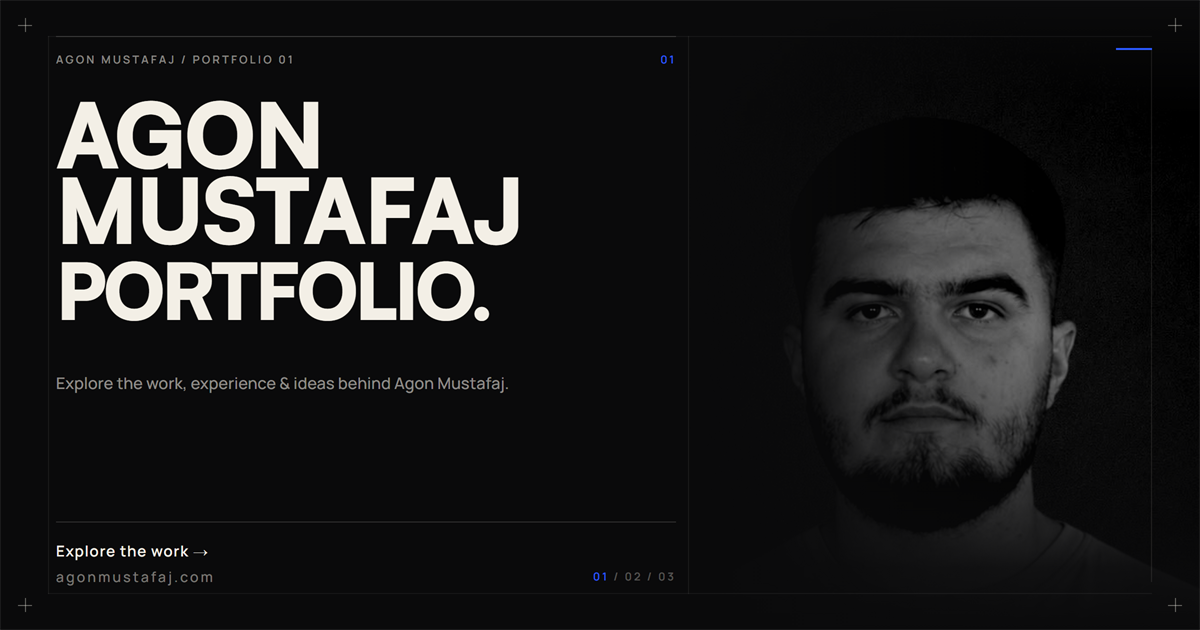
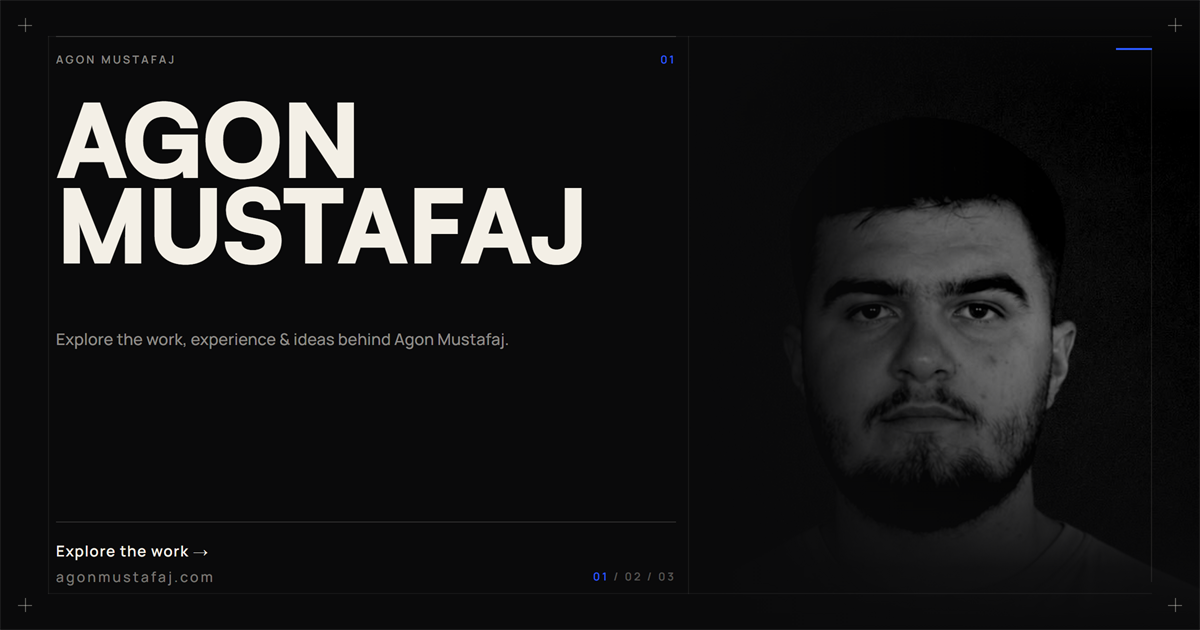
Drop PORTFOLIO from the Open Graph image so social shares show only Agon Mustafaj.

Changed region(s): [[0.0308, 0.1508, 0.4933, 0.573], [0.0308, 0.6032, 0.4317, 0.6333], [0.1542, 0.0905, 0.2467, 0.1206]]

diff --git a/index.html b/index.html
@@ -16,13 +16,13 @@
   <meta property="og:image:width" content="1200">
   <meta property="og:image:height" content="630">
   <meta property="og:image:type" content="image/png">
-  <meta property="og:image:alt" content="Agon Mustafaj Portfolio. Explore the work at agonmustafaj.com">
+  <meta property="og:image:alt" content="Agon Mustafaj. Explore the work at agonmustafaj.com">
   <meta property="og:locale" content="en_US">
   <meta name="twitter:card" content="summary_large_image">
   <meta name="twitter:title" content="Agon Mustafaj | Computer Science, Web &amp; SEO">
   <meta name="twitter:description" content="I'm Agon Mustafaj, Computer Science student at the University of Prishtina and Junior SEO, building with web, data, AI and technology.">
   <meta name="twitter:image" content="https://agonmustafaj.com/assets/images/og.png">
-  <meta name="twitter:image:alt" content="Agon Mustafaj Portfolio. Explore the work at agonmustafaj.com">
+  <meta name="twitter:image:alt" content="Agon Mustafaj. Explore the work at agonmustafaj.com">
   <link rel="icon" type="image/png" href="/assets/images/favicon.png">
   <link rel="apple-touch-icon" href="/assets/images/favicon.png">
   <link rel="stylesheet" href="/css/style.css">

diff --git a/services/index.html b/services/index.html
@@ -15,13 +15,13 @@
   <meta property="og:image:width" content="1200">
   <meta property="og:image:height" content="630">
   <meta property="og:image:type" content="image/png">
-  <meta property="og:image:alt" content="Agon Mustafaj Portfolio. Explore the work at agonmustafaj.com">
+  <meta property="og:image:alt" content="Agon Mustafaj. Explore the work at agonmustafaj.com">
   <meta property="og:locale" content="en_US">
   <meta name="twitter:card" content="summary_large_image">
   <meta name="twitter:title" content="Website Creation for Businesses | Agon Mustafaj">
   <meta name="twitter:description" content="I design and build professional websites for businesses - clear presentation, mobile-ready, and easy for customers to contact you.">
   <meta name="twitter:image" content="https://agonmustafaj.com/assets/images/og.png">
-  <meta name="twitter:image:alt" content="Agon Mustafaj Portfolio. Explore the work at agonmustafaj.com">
+  <meta name="twitter:image:alt" content="Agon Mustafaj. Explore the work at agonmustafaj.com">
   <link rel="icon" type="image/png" href="/assets/images/favicon.png">
   <link rel="apple-touch-icon" href="/assets/images/favicon.png">
   <link rel="stylesheet" href="/css/style.css">

diff --git a/blog/ai-today-what-matters/index.html b/blog/ai-today-what-matters/index.html
@@ -15,13 +15,13 @@
   <meta property="og:image:width" content="1200">
   <meta property="og:image:height" content="630">
   <meta property="og:image:type" content="image/png">
-  <meta property="og:image:alt" content="Agon Mustafaj Portfolio. Explore the work at agonmustafaj.com">
+  <meta property="og:image:alt" content="Agon Mustafaj. Explore the work at agonmustafaj.com">
   <meta property="og:locale" content="en_US">
   <meta name="twitter:card" content="summary_large_image">
   <meta name="twitter:title" content="AI Today: What Actually Matters Right Now">
   <meta name="twitter:description" content="A practical look at where artificial intelligence stands today and which skills matter for students and builders.">
   <meta name="twitter:image" content="https://agonmustafaj.com/assets/images/og.png">
-  <meta name="twitter:image:alt" content="Agon Mustafaj Portfolio. Explore the work at agonmustafaj.com">
+  <meta name="twitter:image:alt" content="Agon Mustafaj. Explore the work at agonmustafaj.com">
   <meta name="author" content="Agon Mustafaj">
   <link rel="icon" type="image/png" href="/assets/images/favicon.png">
   <link rel="apple-touch-icon" href="/assets/images/favicon.png">

diff --git a/blog/ai-changing-web-development/index.html b/blog/ai-changing-web-development/index.html
@@ -15,13 +15,13 @@
   <meta property="og:image:width" content="1200">
   <meta property="og:image:height" content="630">
   <meta property="og:image:type" content="image/png">
-  <meta property="og:image:alt" content="Agon Mustafaj Portfolio. Explore the work at agonmustafaj.com">
+  <meta property="og:image:alt" content="Agon Mustafaj. Explore the work at agonmustafaj.com">
   <meta property="og:locale" content="en_US">
   <meta name="twitter:card" content="summary_large_image">
   <meta name="twitter:title" content="How AI Is Changing Web Development">
   <meta name="twitter:description" content="From writing code faster to improving UX research, AI is reshaping how modern websites are planned and built.">
   <meta name="twitter:image" content="https://agonmustafaj.com/assets/images/og.png">
-  <meta name="twitter:image:alt" content="Agon Mustafaj Portfolio. Explore the work at agonmustafaj.com">
+  <meta name="twitter:image:alt" content="Agon Mustafaj. Explore the work at agonmustafaj.com">
   <meta name="author" content="Agon Mustafaj">
   <link rel="icon" type="image/png" href="/assets/images/favicon.png">
   <link rel="apple-touch-icon" href="/assets/images/favicon.png">

diff --git a/blog/ai-and-technology-building/index.html b/blog/ai-and-technology-building/index.html
@@ -15,13 +15,13 @@
   <meta property="og:image:width" content="1200">
   <meta property="og:image:height" content="630">
   <meta property="og:image:type" content="image/png">
-  <meta property="og:image:alt" content="Agon Mustafaj Portfolio. Explore the work at agonmustafaj.com">
+  <meta property="og:image:alt" content="Agon Mustafaj. Explore the work at agonmustafaj.com">
   <meta property="og:locale" content="en_US">
   <meta name="twitter:card" content="summary_large_image">
   <meta name="twitter:title" content="AI and Technology: Building With Intelligence">
   <meta name="twitter:description" content="Why combining computer science fundamentals with AI tools creates stronger digital products.">
   <meta name="twitter:image" content="https://agonmustafaj.com/assets/images/og.png">
-  <meta name="twitter:image:alt" content="Agon Mustafaj Portfolio. Explore the work at agonmustafaj.com">
+  <meta name="twitter:image:alt" content="Agon Mustafaj. Explore the work at agonmustafaj.com">
   <meta name="author" content="Agon Mustafaj">
   <link rel="icon" type="image/png" href="/assets/images/favicon.png">
   <link rel="apple-touch-icon" href="/assets/images/favicon.png">

diff --git a/skills/index.html b/skills/index.html
@@ -15,13 +15,13 @@
   <meta property="og:image:width" content="1200">
   <meta property="og:image:height" content="630">
   <meta property="og:image:type" content="image/png">
-  <meta property="og:image:alt" content="Agon Mustafaj Portfolio. Explore the work at agonmustafaj.com">
+  <meta property="og:image:alt" content="Agon Mustafaj. Explore the work at agonmustafaj.com">
   <meta property="og:locale" content="en_US">
   <meta name="twitter:card" content="summary_large_image">
   <meta name="twitter:title" content="Skills &amp; Technology Stack | Agon Mustafaj">
   <meta name="twitter:description" content="The technology stack I work with - web development, SEO, data analytics, AI, and design.">
   <meta name="twitter:image" content="https://agonmustafaj.com/assets/images/og.png">
-  <meta name="twitter:image:alt" content="Agon Mustafaj Portfolio. Explore the work at agonmustafaj.com">
+  <meta name="twitter:image:alt" content="Agon Mustafaj. Explore the work at agonmustafaj.com">
   <link rel="icon" type="image/png" href="/assets/images/favicon.png">
   <link rel="apple-touch-icon" href="/assets/images/favicon.png">
   <link rel="stylesheet" href="/css/style.css">

diff --git a/blog/learning-ai-as-cs-student/index.html b/blog/learning-ai-as-cs-student/index.html
@@ -15,13 +15,13 @@
   <meta property="og:image:width" content="1200">
   <meta property="og:image:height" content="630">
   <meta property="og:image:type" content="image/png">
-  <meta property="og:image:alt" content="Agon Mustafaj Portfolio. Explore the work at agonmustafaj.com">
+  <meta property="og:image:alt" content="Agon Mustafaj. Explore the work at agonmustafaj.com">
   <meta property="og:locale" content="en_US">
   <meta name="twitter:card" content="summary_large_image">
   <meta name="twitter:title" content="Learning AI as a Computer Science Student">
   <meta name="twitter:description" content="How I approach AI learning alongside web development, data analytics, and SEO.">
   <meta name="twitter:image" content="https://agonmustafaj.com/assets/images/og.png">
-  <meta name="twitter:image:alt" content="Agon Mustafaj Portfolio. Explore the work at agonmustafaj.com">
+  <meta name="twitter:image:alt" content="Agon Mustafaj. Explore the work at agonmustafaj.com">
   <meta name="author" content="Agon Mustafaj">
   <link rel="icon" type="image/png" href="/assets/images/favicon.png">
   <link rel="apple-touch-icon" href="/assets/images/favicon.png">

diff --git a/about/index.html b/about/index.html
@@ -15,13 +15,13 @@
   <meta property="og:image:width" content="1200">
   <meta property="og:image:height" content="630">
   <meta property="og:image:type" content="image/png">
-  <meta property="og:image:alt" content="Agon Mustafaj Portfolio. Explore the work at agonmustafaj.com">
+  <meta property="og:image:alt" content="Agon Mustafaj. Explore the work at agonmustafaj.com">
   <meta property="og:locale" content="en_US">
   <meta name="twitter:card" content="summary_large_image">
   <meta name="twitter:title" content="About Me | Agon Mustafaj">
   <meta name="twitter:description" content="I'm a Computer Science student, Junior SEO, and technology builder - here's my story.">
   <meta name="twitter:image" content="https://agonmustafaj.com/assets/images/og.png">
-  <meta name="twitter:image:alt" content="Agon Mustafaj Portfolio. Explore the work at agonmustafaj.com">
+  <meta name="twitter:image:alt" content="Agon Mustafaj. Explore the work at agonmustafaj.com">
   <link rel="icon" type="image/png" href="/assets/images/favicon.png">
   <link rel="apple-touch-icon" href="/assets/images/favicon.png">
   <link rel="stylesheet" href="/css/style.css">

diff --git a/projects/hoxha-handwerk/index.html b/projects/hoxha-handwerk/index.html
@@ -15,13 +15,13 @@
   <meta property="og:image:width" content="1200">
   <meta property="og:image:height" content="630">
   <meta property="og:image:type" content="image/png">
-  <meta property="og:image:alt" content="Agon Mustafaj Portfolio. Explore the work at agonmustafaj.com">
+  <meta property="og:image:alt" content="Agon Mustafaj. Explore the work at agonmustafaj.com">
   <meta property="og:locale" content="en_US">
   <meta name="twitter:card" content="summary_large_image">
   <meta name="twitter:title" content="Hoxha Handwerk: Case Study">
   <meta name="twitter:description" content="A professional business website with conversion-oriented layout and responsive UX.">
   <meta name="twitter:image" content="https://agonmustafaj.com/assets/images/og.png">
-  <meta name="twitter:image:alt" content="Agon Mustafaj Portfolio. Explore the work at agonmustafaj.com">
+  <meta name="twitter:image:alt" content="Agon Mustafaj. Explore the work at agonmustafaj.com">
   <link rel="icon" type="image/png" href="/assets/images/favicon.png">
   <link rel="apple-touch-icon" href="/assets/images/favicon.png">
   <link rel="stylesheet" href="/css/style.css">

diff --git a/projects/banese-per-ty/index.html b/projects/banese-per-ty/index.html
@@ -15,13 +15,13 @@
   <meta property="og:image:width" content="1200">
   <meta property="og:image:height" content="630">
   <meta property="og:image:type" content="image/png">
-  <meta property="og:image:alt" content="Agon Mustafaj Portfolio. Explore the work at agonmustafaj.com">
+  <meta property="og:image:alt" content="Agon Mustafaj. Explore the work at agonmustafaj.com">
   <meta property="og:locale" content="en_US">
   <meta name="twitter:card" content="summary_large_image">
   <meta name="twitter:title" content="Banesë për Ty: Case Study">
   <meta name="twitter:description" content="A rental platform for property discovery, search, and tenant-landlord workflows.">
   <meta name="twitter:image" content="https://agonmustafaj.com/assets/images/og.png">
-  <meta name="twitter:image:alt" content="Agon Mustafaj Portfolio. Explore the work at agonmustafaj.com">
+  <meta name="twitter:image:alt" content="Agon Mustafaj. Explore the work at agonmustafaj.com">
   <link rel="icon" type="image/png" href="/assets/images/favicon.png">
   <link rel="apple-touch-icon" href="/assets/images/favicon.png">
   <link rel="stylesheet" href="/css/style.css">

diff --git a/projects/index.html b/projects/index.html
@@ -15,13 +15,13 @@
   <meta property="og:image:width" content="1200">
   <meta property="og:image:height" content="630">
   <meta property="og:image:type" content="image/png">
-  <meta property="og:image:alt" content="Agon Mustafaj Portfolio. Explore the work at agonmustafaj.com">
+  <meta property="og:image:alt" content="Agon Mustafaj. Explore the work at agonmustafaj.com">
   <meta property="og:locale" content="en_US">
   <meta name="twitter:card" content="summary_large_image">
   <meta name="twitter:title" content="Projects | Agon Mustafaj">
   <meta name="twitter:description" content="Projects I've built - web development, data analysis, and digital experiences.">
   <meta name="twitter:image" content="https://agonmustafaj.com/assets/images/og.png">
-  <meta name="twitter:image:alt" content="Agon Mustafaj Portfolio. Explore the work at agonmustafaj.com">
+  <meta name="twitter:image:alt" content="Agon Mustafaj. Explore the work at agonmustafaj.com">
   <link rel="icon" type="image/png" href="/assets/images/favicon.png">
   <link rel="apple-touch-icon" href="/assets/images/favicon.png">
   <link rel="stylesheet" href="/css/style.css">

diff --git a/blog/index.html b/blog/index.html
@@ -15,13 +15,13 @@
   <meta property="og:image:width" content="1200">
   <meta property="og:image:height" content="630">
   <meta property="og:image:type" content="image/png">
-  <meta property="og:image:alt" content="Agon Mustafaj Portfolio. Explore the work at agonmustafaj.com">
+  <meta property="og:image:alt" content="Agon Mustafaj. Explore the work at agonmustafaj.com">
   <meta property="og:locale" content="en_US">
   <meta name="twitter:card" content="summary_large_image">
   <meta name="twitter:title" content="Blog | Agon Mustafaj">
   <meta name="twitter:description" content="I write about artificial intelligence, technology, and modern web development.">
   <meta name="twitter:image" content="https://agonmustafaj.com/assets/images/og.png">
-  <meta name="twitter:image:alt" content="Agon Mustafaj Portfolio. Explore the work at agonmustafaj.com">
+  <meta name="twitter:image:alt" content="Agon Mustafaj. Explore the work at agonmustafaj.com">
   <link rel="icon" type="image/png" href="/assets/images/favicon.png">
   <link rel="apple-touch-icon" href="/assets/images/favicon.png">
   <link rel="stylesheet" href="/css/style.css">
